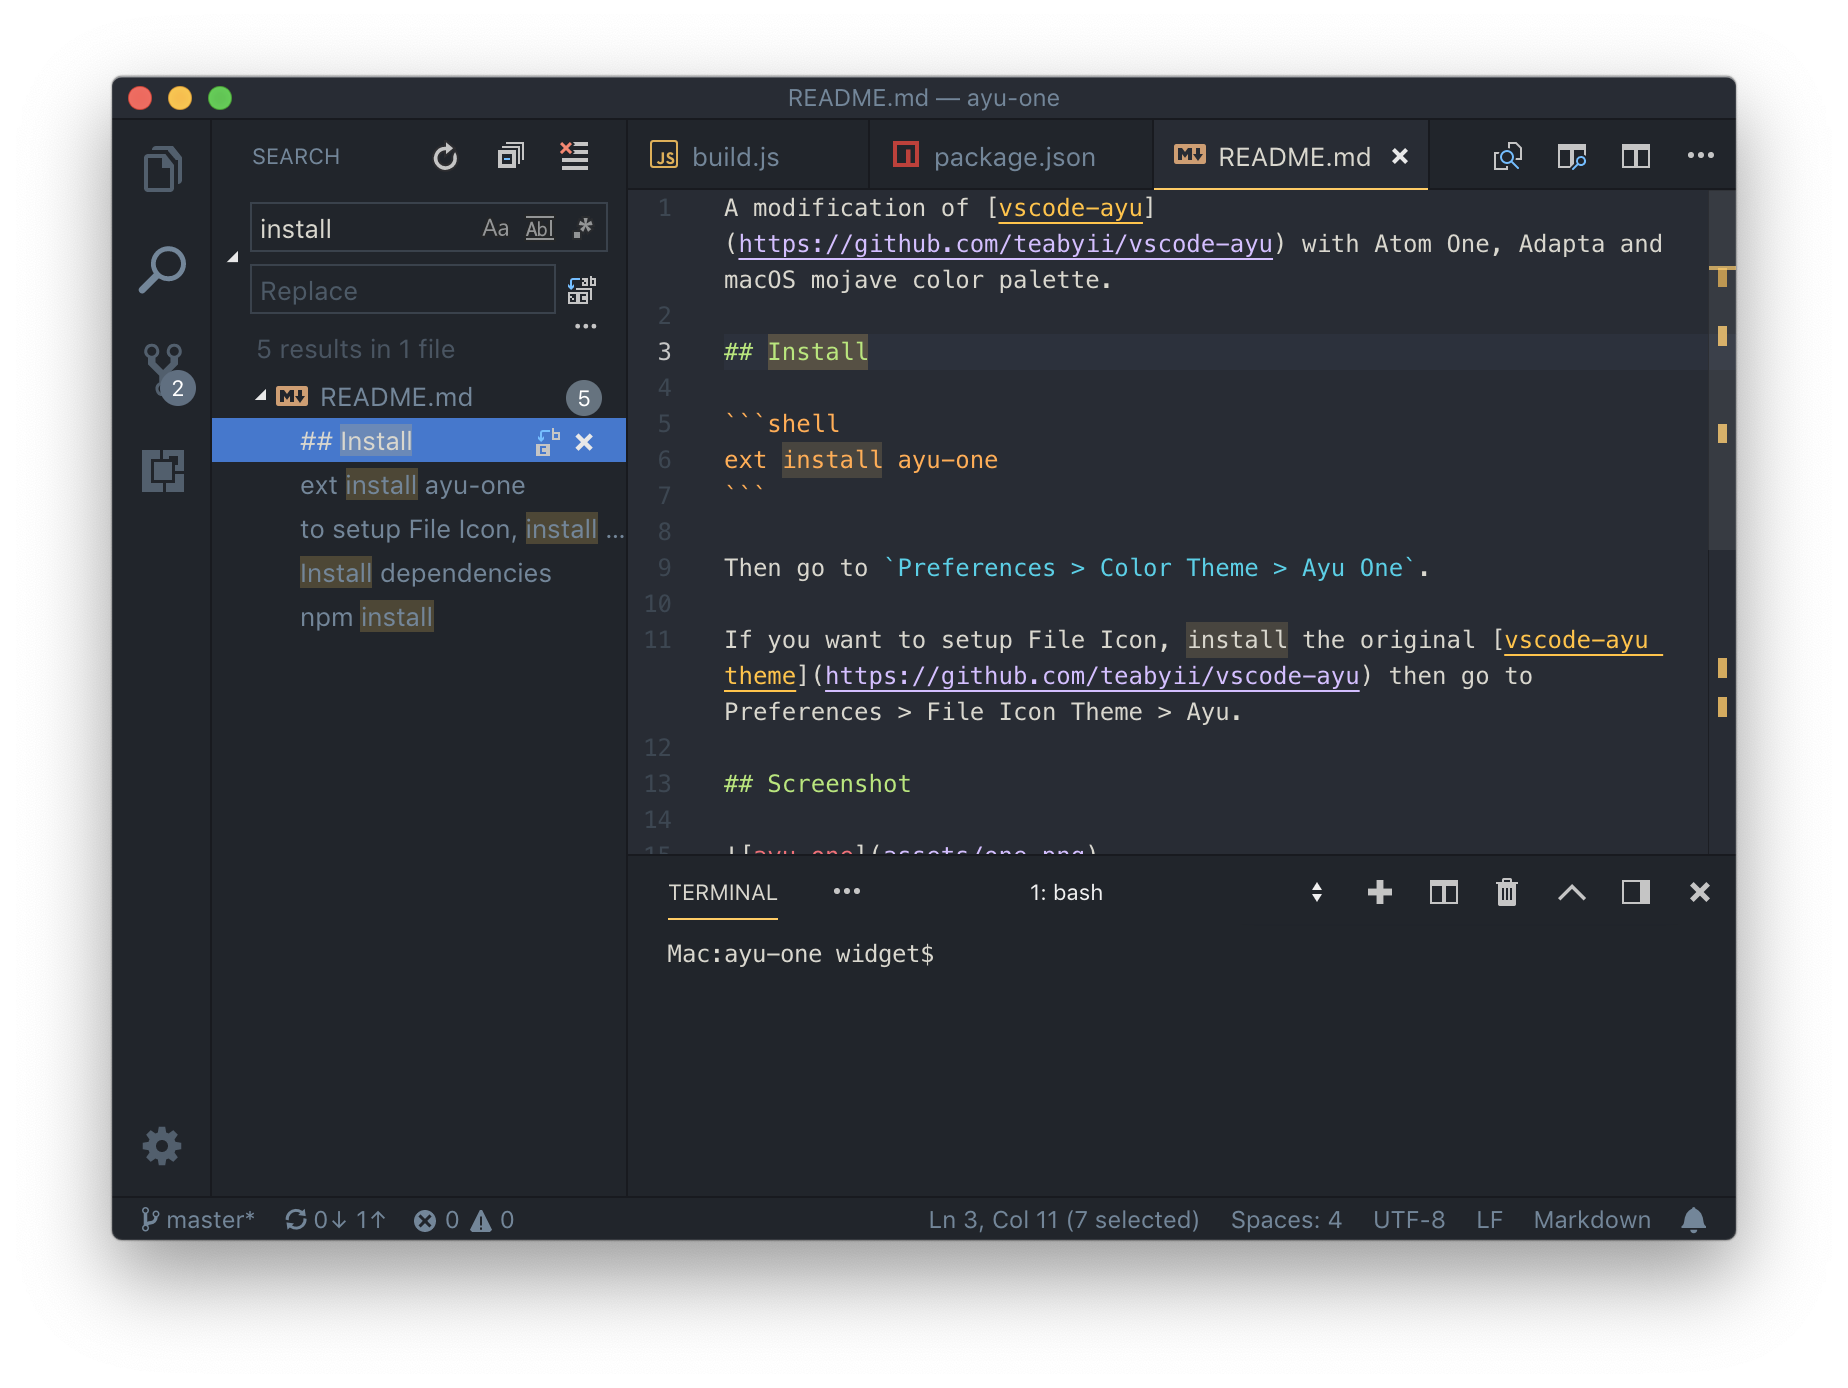
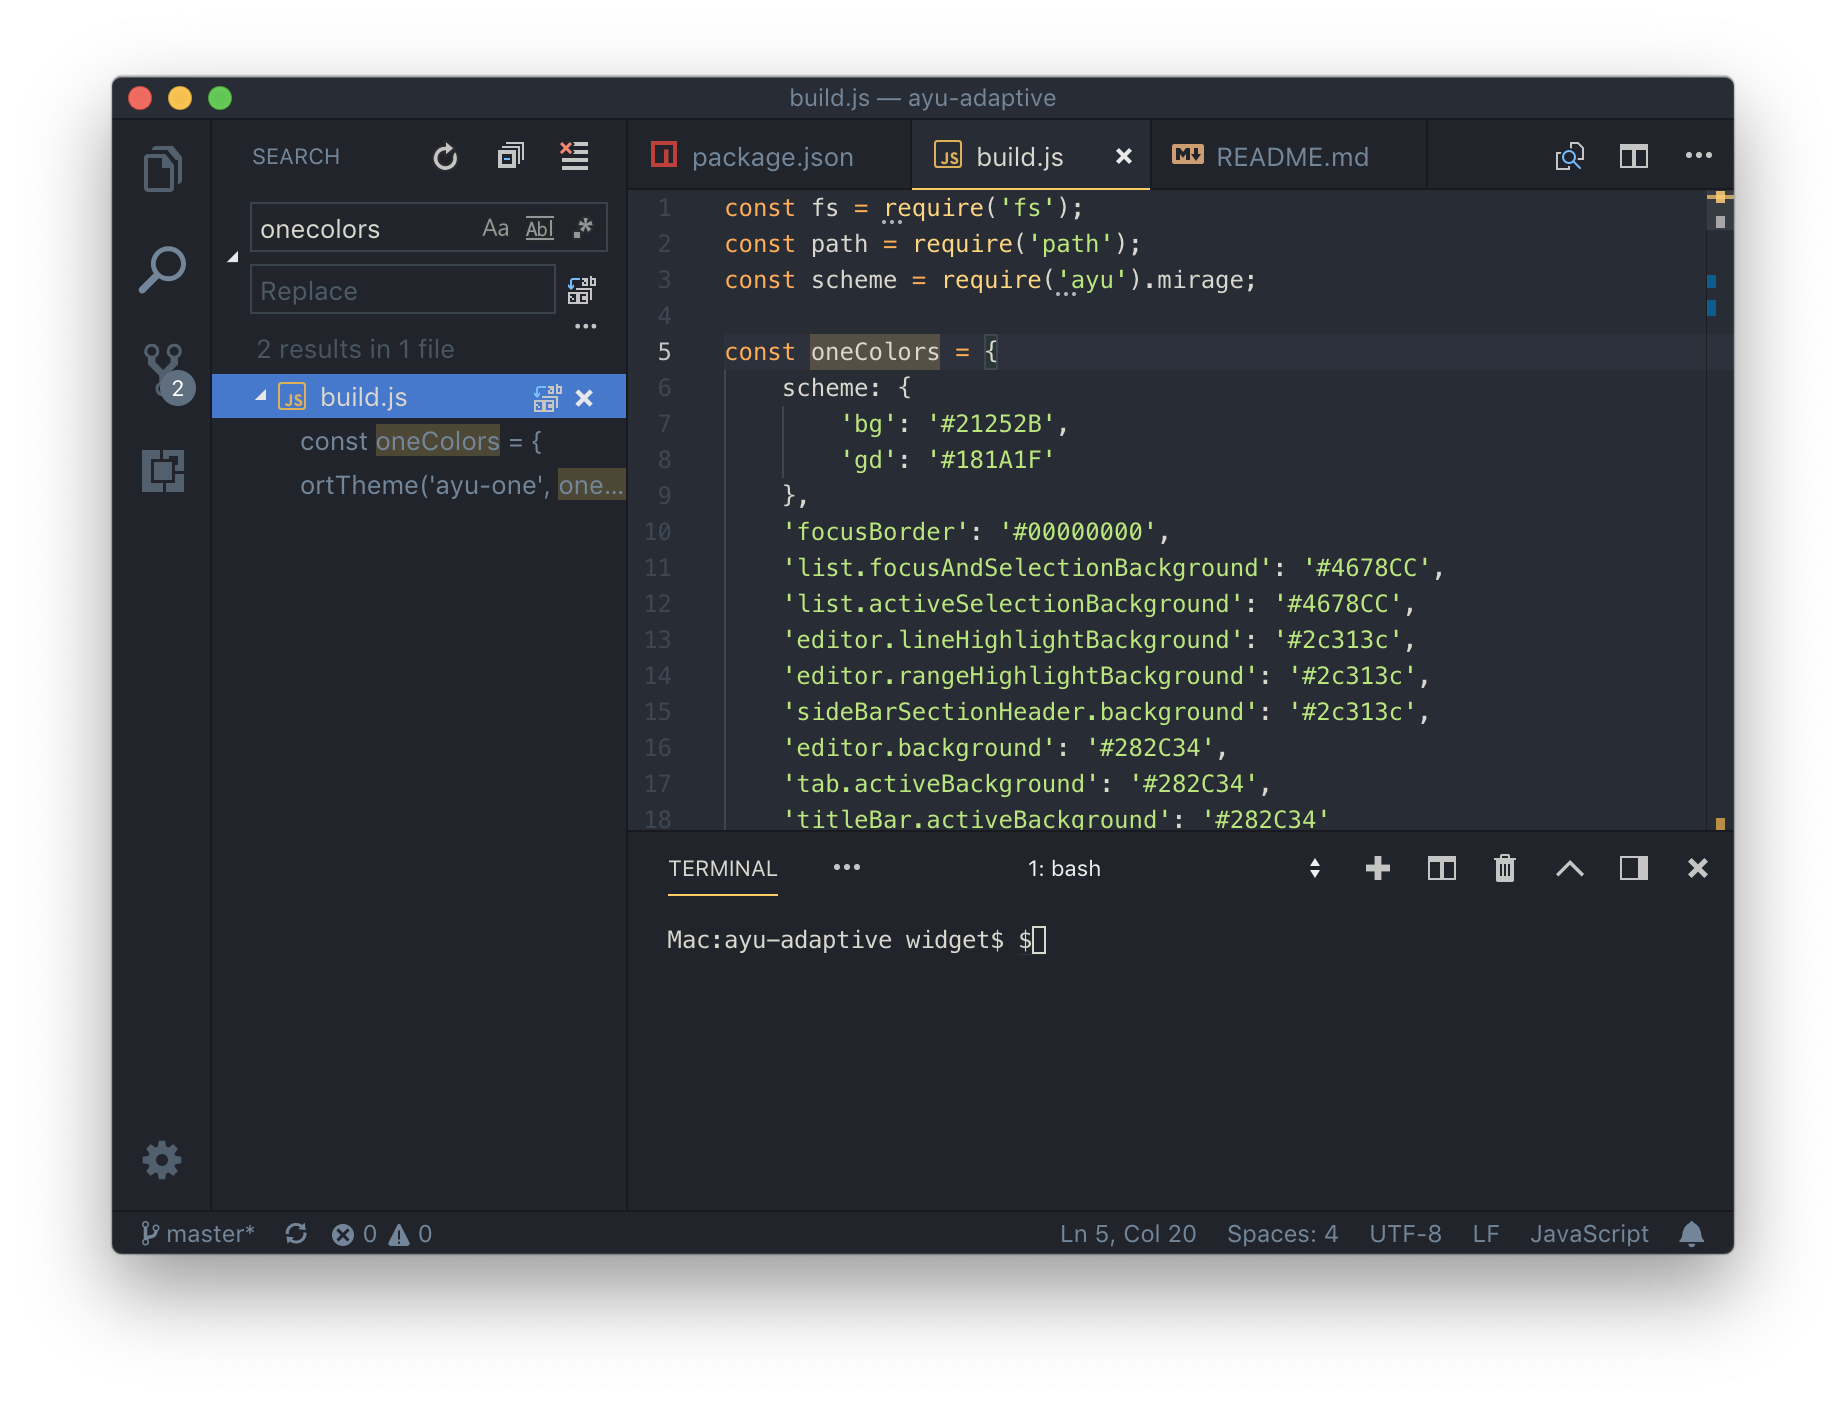
mojave terminal color

diff --git a/build.js b/build.js
@@ -46,9 +46,13 @@ const mojaveColors = {
         'bg': '#373839',
         'gd': '#181A1F'
     },
-    'sideBar.background': '#333335',
-    'activityBar.background': '#333335',
-    'statusBar.background': '#333335',
+    'panel.background': '#2e2e30',
+    'terminal.background': '#2e2e30',
+    // 'sideBar.background': '#333335',
+    // 'activityBar.background': '#333335',
+    // 'statusBar.background': '#333335',
+    // 'tab.activeBackground': '#333335',
+    // 'titleBar.activeBackground': '#333335',
     'focusBorder': '#00000000',
     'list.focusAndSelectionBackground': '#4678CC',
     'list.activeSelectionBackground': '#4678CC',
@@ -60,10 +64,8 @@ const mojaveColors = {
     'list.hoverForeground': '#959596',
     'list.hoverBackground': '#00000000',
     'editor.background': '#292a2f',
-    'tab.activeBackground': '#333335',
     'tab.inactiveBackground': '#262627',
     'editorGroupHeader.tabsBackground': '#262627',
-    'titleBar.activeBackground': '#333335',
     "editorIndentGuide.background": "#dfe9f20a",
     "editorIndentGuide.activeBackground": "#dfe9f20a",
     'selection.background': '#575759',
